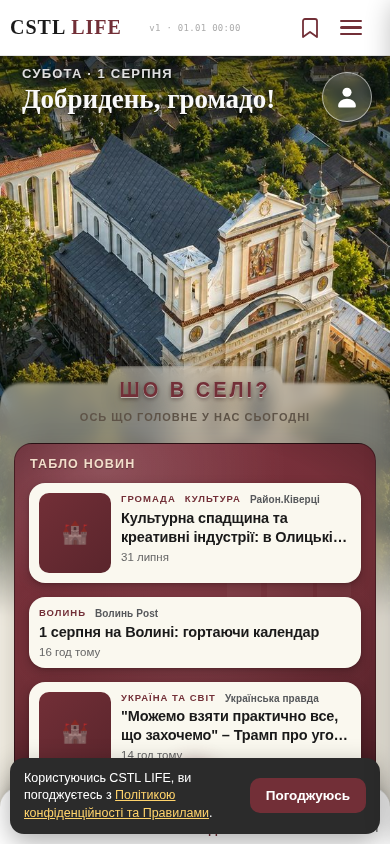
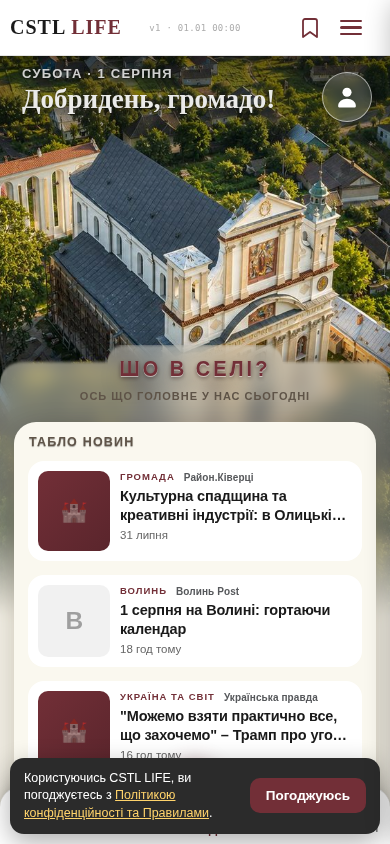
feat(news): крок 6 — дорога 2, прилад знято; віджет і хаб малюють новину однаково [byyou]
- .cm-block--news: багряний градієнт + глянець + віньєтка → var(--bg-card)
- силует замку прибрано: інверсія на світлому дала три сірі прямокутники
- усі кольори тексту перевернуто зі світлих на темні (бар, бейдж, кнопка, лінія)
- картка віджета: біла з обідком як у хабі; тінь знято (обідок + тінь = дві межі)
- монограма джерела замість порожнього фото: висоти 100/71/100 → 100/92/100
- категорія прихована у варіанті mini — і саме в news-card.css, бо сторож
  news-widget.mjs справедливо завалив спробу зробити це з боку екрана
- знято крок 9: formatTime уже дає стандартні сходи relative→absolute
- CACHE_NAME cstl-20260801-1521; стенди 31/31, 462/462

Changed region(s): [[0.0, 0.4005, 1.0, 0.9242], [0.1538, 0.8626, 0.2154, 0.8934]]

diff --git a/style/community.css b/style/community.css
@@ -4284,45 +4284,40 @@ textarea.cm-board-input.bm-invalid {
    Вигляд стенду-табло: темна рамка-безель (frame) з металевим відтінком →
    всередині втоплений червоний «екран», по якому свайпаєш новини-картки.
    Помітна рамка + шапка-табличка з «LIVE»-крапкою. Картки-кремові на екрані. */
+/* 🔴 01.08.2026 — «ПРИЛАД» ЗНЯТО (дорога 2, вибір Вови зі знімків).
+   ІСТОРІЯ, щоб не повертали наосліп: 08.07 Рома зробив блок насиченим багряним
+   градієнтом із глянцем, віньєткою і силуетом замку — «табло» як фізичний прилад.
+   31.07 Вова обрав варіант B («багряний, але тонше») і тоді ж ВІДМОВИВСЯ знімати
+   прилад. 01.08 рішення переглянуто, і ось чому це не примха:
+
+   Заміряно в потоці /byyou: спроба прибрати з віджета зайві межі провалилась —
+   на багряному тлі читабельність тексту тримали САМЕ білі плашки карток, тож
+   «менше коробок» там неможливе за фізикою контрасту (`shots/variants/w1-C-смуга.png`).
+   Тобто прилад не просто прикраса — він ДИКТУВАВ, що всередині мають бути коробки.
+   Три потоки 31.07 міняли картки всередині приладу, і скарга «не подобається»
+   лишалась щоразу. Знявши прилад, віджет отримує ту саму поверхню й ту саму
+   картку, що й хаб новин, — шлях новин перестає виглядати двома різними мовами.
+
+   ⚠ ЦІНА, названа вголос: Громада втрачає багряний акцент. Прийнято Вовою.
+   ↩ Повернути прилад = відновити цей блок і `::before` з git-історії (коміт
+      цього рядка), плюс кольори тексту нижче — вони теж перевернуті на світле тло. */
 .cm-block--news {
-  /* НОВИЙ дизайн (08.07): насичений червоний градієнт як табло автобусів +
-     глянець + легкий силует замку (::before). Без «екрана-рамки» — картки
-     левітують прямо над градієнтом. */
   position: relative;
-  /* Насичений багряний як табло автобусів: глянець + багряний градієнт у темне +
-     ВІНЬЄТКА (затемнення по контуру) — рішення Роми 08.07. */
-  background:
-    radial-gradient(120% 88% at 50% 42%, rgba(0,0,0,0) 48%, rgba(0,0,0,0.55) 100%),        /* віньєтка по контуру (підсилена) */
-    radial-gradient(120% 80% at 25% 6%, rgba(255,255,255,0.16) 0%, rgba(255,255,255,0) 42%), /* глянець згори */
-    linear-gradient(162deg, #7B303C 0%, #722F37 44%, #481C24 100%);                        /* винно-багряний як борд Автобусів → затемнений низ (не чорнота) */
-  /* 🔴 31.07, ВАРІАНТ B (вибір Вови зі скріншотів — метод шапки Дошки 28.07).
-     Замовлення було «багряний, але тонше»: характер і силует замку лишаються,
-     «корпус приладу» йде. Кути 22→18, рамка 0.55→0.35, тіні приблизно вдвічі
-     тихіші, нижня inset-лінія прибрана зовсім — саме вона й читалась як край
-     фізичної коробки. Варіант C (зняти глянець, віньєтку і замок) відкинуто
-     самим Вовою: це вже «зняти прилад», від чого він відмовився на кроці 1. */
-  border: 1px solid rgba(0, 0, 0, 0.35);
-  border-radius: 18px;
-  box-shadow:
-    0 8px 20px rgba(0, 0, 0, 0.24),
-    0 2px 6px rgba(0, 0, 0, 0.18),
-    inset 0 1px 0 rgba(255, 255, 255, 0.14);
+  background: var(--bg-card);
+  border-radius: var(--card-radius);
+  box-shadow: var(--card-shadow);
   overflow: hidden;
 }
-/* Легкий силует замку в кутку — як фоновий акцент табло автобусів. */
-.cm-block--news::before {
-  content: '';
-  position: absolute;
-  top: 34px; right: 18px;
-  width: 190px; height: 130px;
-  background:
-    linear-gradient(#ffffff, #ffffff) 60px 40px / 34px 90px no-repeat,
-    linear-gradient(#ffffff, #ffffff) 100px 10px / 46px 120px no-repeat,
-    linear-gradient(#ffffff, #ffffff) 150px 40px / 34px 90px no-repeat;
-  opacity: 0.035;   /* 31.07 (варіант B): 0.05 → 0.035, силует лише вгадується */
-  pointer-events: none;
-  z-index: 0;
-}
+/* 🔴 01.08 — СИЛУЕТ ЗАМКУ ПРИБРАНО, і це вирішив ЗНІМОК, а не смак.
+   Спроба була: лишити силует, лише перефарбувати білі вежі в темні під світлу
+   поверхню. На екрані це дало ТРИ СІРІ ПРЯМОКУТНИКИ у правому куті — читались
+   як артефакт верстки, а не як натяк на замок.
+   Чому так вийшло: на багряному тлі вежі були СВІТЛІШІ за фон, тобто читались
+   як світло, що падає; око добудовувало силует. На світлому вони стали ТЕМНІШІ
+   за фон — тобто предметом, а предмет із трьох прямокутників замком не читається.
+   ➡ Знак, який працює лише в один бік яскравості, не можна просто інвертувати.
+   Той самий урок, що з накладкою шапки Дошки 28.07: «фізика та сама, знак
+   протилежний». Характер віджету тепер несе не тло, а зміст — три розділи. */
 /* Шапка-табличка табло — з тонкою розділовою гранню під нею.
    🔴 31.07: стала <button> (весь віджет веде в хаб). Через це знадобився скид
    власних стилів кнопки — `border`, `background` і особливо `font: inherit`:
@@ -4345,7 +4340,7 @@ textarea.cm-board-input.bm-invalid {
   text-align: left;
   cursor: pointer;
   -webkit-tap-highlight-color: transparent;
-  color: #F3DECB;
+  color: var(--ink-soft);   /* 01.08: було #F3DECB (кремове на багряному) — прилад знято */
   font-size: 12.5px;
   font-weight: 800;
   letter-spacing: 1.2px;
@@ -4367,8 +4362,10 @@ textarea.cm-board-input.bm-invalid {
   flex: none;
   padding: 3px 8px;
   border-radius: 999px;
-  background: rgba(255, 255, 255, 0.16);
-  color: #FFF1F3;
+  /* 01.08: було світле на багряному. Тепер акцент проєкту на світлому — бейдж
+     мусить лишатись помітним, бо це єдине, що каже «є непрочитане». */
+  background: var(--news-accent);
+  color: #FFFFFF;
   font-size: 10.5px;
   font-weight: 800;
   letter-spacing: 0.2px;
@@ -4381,8 +4378,8 @@ textarea.cm-board-input.bm-invalid {
 .cm-block--news .cm-block-body {
   position: relative;
   z-index: 1;
-  background:
-    radial-gradient(75% 55% at 50% 50%, rgba(255, 170, 185, 0.16) 0%, rgba(255, 140, 160, 0.04) 48%, rgba(255, 140, 160, 0) 72%);
+  /* 01.08: рожеве світіння прибрано — воно існувало лише щоб «підсвітити екран
+     приладу» на багряному тлі. На світлій поверхні воно давало брудну пляму. */
   margin: 0 4px;
   padding: 2px 10px;   /* +6px боків (перенесено з .cm-news-feed): це НЕ-overflow батько → бокова винна зона тепер скролить СТОРІНКУ, а не стрічку (п.10) */
   touch-action: pan-y;   /* 12.07: явна підказка Safari — ця зона віддає вертикальний свайп СТОРІНЦІ, не бореться зі стрічкою всередині (п.10, посилення) */
@@ -4400,7 +4397,7 @@ textarea.cm-board-input.bm-invalid {
   z-index: 1;
   padding: 0 12px 10px;
   margin-top: 6px;
-  border-top: 1px solid rgba(255, 255, 255, 0.16);
+  border-top: 1px solid rgba(0, 0, 0, 0.08);   /* 01.08: було світле на багряному */
 }
 
 /* 🔴 31.07: ТРИ ЧІПИ-ФІЛЬТРИ ПРИБРАНІ (рішення Вови) — разом із ними пішли
@@ -4418,7 +4415,7 @@ textarea.cm-board-input.bm-invalid {
   padding: 11px 4px 9px;
   border: none;
   background: transparent;
-  color: rgba(255, 236, 240, 0.92);
+  color: var(--news-accent);   /* 01.08: було кремове на багряному; акцент лишає дію помітною */
   /* 🔴 31.07 (крок 6). Вова: «УСІ НОВИНИ треба, може, ВЕЛИКИМИ БУКВАМИ написати,
      бо так буде краще». Капс тут доречний і структурно: це не речення, а назва
      дії — рівно як «ТАБЛО НОВИН» у шапці того самого віджета, яке вже капсом.
@@ -4433,7 +4430,7 @@ textarea.cm-board-input.bm-invalid {
   -webkit-tap-highlight-color: transparent;
 }
 .cm-news-all svg { width: 16px; height: 16px; }
-.cm-news-all:active { color: #fff; }
+.cm-news-all:active { opacity: 0.6; }   /* 01.08: було color:#fff — на світлому це зникнення */
 
 /* 🔴 31.07: `.cm-news-feed` (вкладений скролер) ВИДАЛЕНО РАЗОМ ІЗ ПРАВИЛАМИ.
    Він мав `max-height: 465px; overflow-y: auto` при вмісті 6 933px — тобто ховав
@@ -4470,15 +4467,28 @@ textarea.cm-board-input.bm-invalid {
 .cm-news-top3 {
   --nc-accent: var(--news-accent);
   --nc-excl: #9A6B00;
-  /* Картка табла лишається РІДНОЮ (кремовою) і без обідка — на багряному тлі вона
-     й так виступає, а сірий обідок хаба тут читався б як чужа деталь. Помітність
-     тримає власна тінь (`.cm-news-top3 > *` нижче).
+  /* 🔴 01.08 (дорога 2): картка стала БІЛОЮ З ОБІДКОМ — так само, як у хабі.
+     Раніше тут було `--nc-card: var(--bg-card)` без обідка: на багряному тлі
+     картка виступала сама, і сірий обідок хаба читався б як чужа деталь. Коли
+     прилад знято, тло під карткою стало тим самим `--bg-card` — тобто картка
+     зливалася б із блоком, і межу мусить дати саме обідок.
+     ➡ Побічна вигода, заради якої все й робилось: віджет і хаб тепер малюють
+     новину ОДНАКОВО. Вова 01.08 про хаб: «треба як було до цього, в ободку».
      ⚠ `--nc-radius` задано ЯВНО, бо велика перша й компактні рядки — різні
      варіанти з різними стандартними кутами (14 і 16); у межах одного віджета кути
      мусять збігатись, інакше три картки в стовпчику виглядають зібраними нашвидку. */
-  --nc-card: var(--bg-card);
-  --nc-line: transparent;
+  --nc-card: #FFFFFF;
+  --nc-line: rgba(0, 0, 0, 0.09);
   --nc-radius: 16px;
+
+  /* 🔴 01.08 — КАТЕГОРІЯ У ВІДЖЕТІ НЕ МАЛЮЄТЬСЯ.
+     Верхній рядок збирав до трьох сутностей: `ГРОМАДА` + `КУЛЬТУРА` +
+     `Район.Ківерці` — два капси поспіль зливаються в орнамент, і рядок
+     переносився. У ВІДЖЕТІ головне — з якого світу новина (Громада / Волинь /
+     Україна та Світ), бо в ньому рівно по одній з кожного; тема вторинна.
+     ⚠ У ХАБІ категорія лишається — там усі новини одного розділу, і саме
+     тема відрізняє їх одну від одної. Тобто це не «прибрати мітку», а
+     показувати ту, що на цьому екрані щось означає. */
 
   display: flex;
   flex-direction: column;
@@ -4502,8 +4512,9 @@ textarea.cm-board-input.bm-invalid {
   /* 31.07 (варіант B): картки ЛЕЖАТЬ, а не левітують. Стара потрійна тінь
      (22px розмиття + світла аура) працювала, поки картка була одна з двадцяти в
      глибокому скролері; на трьох статичних вона читалась як зайвий об'єм. */
-  box-shadow:
-    0 4px 12px rgba(0, 0, 0, 0.22),
-    0 1px 3px rgba(0, 0, 0, 0.16);
+  /* 🔴 01.08 (дорога 2): тінь ПРИБРАНА. Ті числа (0.22/0.16) рахувались під
+     багряне тло, де глибока тінь читається природно. На світлій поверхні поруч
+     із обідком вона дала б ДВА розділювачі в одному місці — рівно та помилка,
+     через яку 29.07 «давило на очі» на Дошці. Межу тримає один засіб — обідок. */
 }
 /* Картки лишаються рідними (кремовими) — на червоному фоні блока контрастні. */

diff --git a/style/news-card.css b/style/news-card.css
@@ -146,6 +146,29 @@
    `news.css` при рівній вазі селекторів — і замок поїхав би в лівий верхній кут. */
 img.nc-img { display: block; object-fit: cover; }
 
+/* 🔴 01.08 — МОНОГРАМА ДЖЕРЕЛА (картка без фото).
+   Навіщо: у віджеті картки міряли 100 / 71 / 100 px — середня провалювалась на
+   третину саме тому, що джерело не дало картинки. Клітинка тепер зайнята завжди,
+   тож ритм рівний незалежно від даних.
+   Чому літера, а не сірий прямокутник: плейсхолдер має щось означати — «В» це
+   Волинь Post, «К» це Конкурент. Порожня пляма додала б шуму і нічого не сказала.
+   ⚠ Це НЕ той самий плейсхолдер, що в `handleImgError` (🏰 для БИТОГО фото).
+   Там картинка є, але не завантажилась; тут її нема в даних узагалі. Два різні
+   стани — два різні знаки, інакше «нема фото» і «фото зламалось» злились би. */
+.nc-img--mono {
+  display: flex;
+  align-items: center;
+  justify-content: center;
+  background: rgba(0, 0, 0, 0.055);
+  color: rgba(0, 0, 0, 0.34);
+  font-weight: 800;
+  /* Кегль від розміру клітинки: у 84px картці хаба літера має бути помітною,
+     у 56px віджета — не розпирати. `--nc-img-w` уже задає геометрію варіанта. */
+  font-size: calc(var(--nc-img-w, 84px) * 0.34);
+  letter-spacing: -0.5px;
+  user-select: none;
+}
+
 /* ── СПІЛЬНА ПОВЕРХНЯ КАРТКИ (обидва варіанти хаба) ────────────────────────── */
 /* 🔴 31.07, крок 3. Пряме замовлення Вови: «фон залишити, просто такий ОБОДОК
    зробити, ЯК В ДОШЦІ… і зробити так само її у вигляді КАРТОЧКИ, а не просто
@@ -229,6 +252,20 @@ img.nc-img { display: block; object-fit: cover; }
   --nc-img-emoji: 22px;
 }
 .nc--mini .nc-title { margin-bottom: 4px; }
+/* 🔴 01.08 — У ВАРІАНТІ `mini` КАТЕГОРІЯ НЕ МАЛЮЄТЬСЯ.
+   Верхній рядок збирав до трьох сутностей: `ГРОМАДА` + `КУЛЬТУРА` +
+   `Район.Ківерці`. Два капси поспіль зливаються в орнамент, і рядок переносився.
+   `mini` живе у віджеті Громади, де новин рівно по одній з кожного розділу —
+   тобто важливо «з якого світу», а не «на яку тему». У `row`/`lead` (хаб)
+   категорія ЛИШАЄТЬСЯ: там усі новини одного розділу, і тема — єдине, що їх
+   розрізняє. Тобто це не «прибрати мітку», а показувати ту, яка на цьому
+   екрані щось означає.
+   ⚠ Правило стоїть САМЕ ТУТ, а не в `community.css`: сторож
+   `tests/news-widget.mjs` стежить, щоб екран задавав лише кольори-токени, а
+   форму картки описував компонент. Перша спроба сховати мітку з боку віджета
+   завалила стенд — і за ділом: саме так 31.07 і розʼїхались дві мови розмітки. */
+.nc--mini .nc-badge--cat,
+.nc--mini .nc-badge--illus { display: none; }
 .nc--mini:active { opacity: 0.85; transform: scale(0.99); }
 
 /* 🔴 31.07 (крок 3): підсвітка-«плитка» через `::before` + токен `--nc-bleed`

diff --git a/src/tabs/news.js b/src/tabs/news.js
@@ -267,7 +267,17 @@ function badgesHtml(a) {
 function renderCard(a, variant) {
   return `
     <article class="nc nc--${variant}${a.exclusive ? ' exclusive' : ''}" data-article-id="${a.id}">
-      ${a.image ? `<img class="nc-img" src="${escapeHtml(a.image)}" alt="" loading="lazy">` : ''}
+      ${a.image
+        ? `<img class="nc-img" src="${escapeHtml(a.image)}" alt="" loading="lazy">`
+        // 🔴 01.08 — МОНОГРАМА ДЖЕРЕЛА замість порожнечі. Заміряно у віджеті:
+        // картки були 100 / 71 / 100 px, і саме середня (без фото) провалювалась
+        // на третину — око читає це як збій верстки, а не як ритм. Плейсхолдер
+        // тримає ту саму клітинку, тож висоти рівні незалежно від того, чи дало
+        // джерело картинку. Літера — перша з назви джерела, тобто плейсхолдер
+        // ще й КАЖЕ щось («В» = Волинь Post), а не малює сірий прямокутник.
+        // ⚠ Клас `nc-img` лишається — усі розміри вже описані ним; відрізняє
+        // лише модифікатор, інакше довелось би дублювати геометрію трьох варіантів.
+        : `<div class="nc-img nc-img--mono" aria-hidden="true">${escapeHtml((a.source || '?').trim().charAt(0).toUpperCase())}</div>`}
       <div class="nc-body">
         <div class="nc-meta">${badgesHtml(a)}<span class="nc-src">${escapeHtml(a.source)}</span></div>
         <h2 class="nc-title">${escapeHtml(a.title)}</h2>

diff --git a/bundle.js b/bundle.js
@@ -7453,7 +7453,7 @@
   function renderCard2(a, variant) {
     return `
     <article class="nc nc--${variant}${a.exclusive ? " exclusive" : ""}" data-article-id="${a.id}">
-      ${a.image ? `<img class="nc-img" src="${escapeHtml(a.image)}" alt="" loading="lazy">` : ""}
+      ${a.image ? `<img class="nc-img" src="${escapeHtml(a.image)}" alt="" loading="lazy">` : `<div class="nc-img nc-img--mono" aria-hidden="true">${escapeHtml((a.source || "?").trim().charAt(0).toUpperCase())}</div>`}
       <div class="nc-body">
         <div class="nc-meta">${badgesHtml(a)}<span class="nc-src">${escapeHtml(a.source)}</span></div>
         <h2 class="nc-title">${escapeHtml(a.title)}</h2>

diff --git a/sw.js b/sw.js
@@ -1,7 +1,7 @@
 // sw.js — CSTL LIFE Service Worker
 // Кешує статичні файли для офлайн-роботи і швидкого завантаження
 
-const CACHE_NAME = 'cstl-20260801-1353';
+const CACHE_NAME = 'cstl-20260801-1521';
 
 // Precache (попереднє кешування) — статичні файли які не змінюються часто
 // index.html тут — як fallback для офлайну (на fetch використовується network-first)
